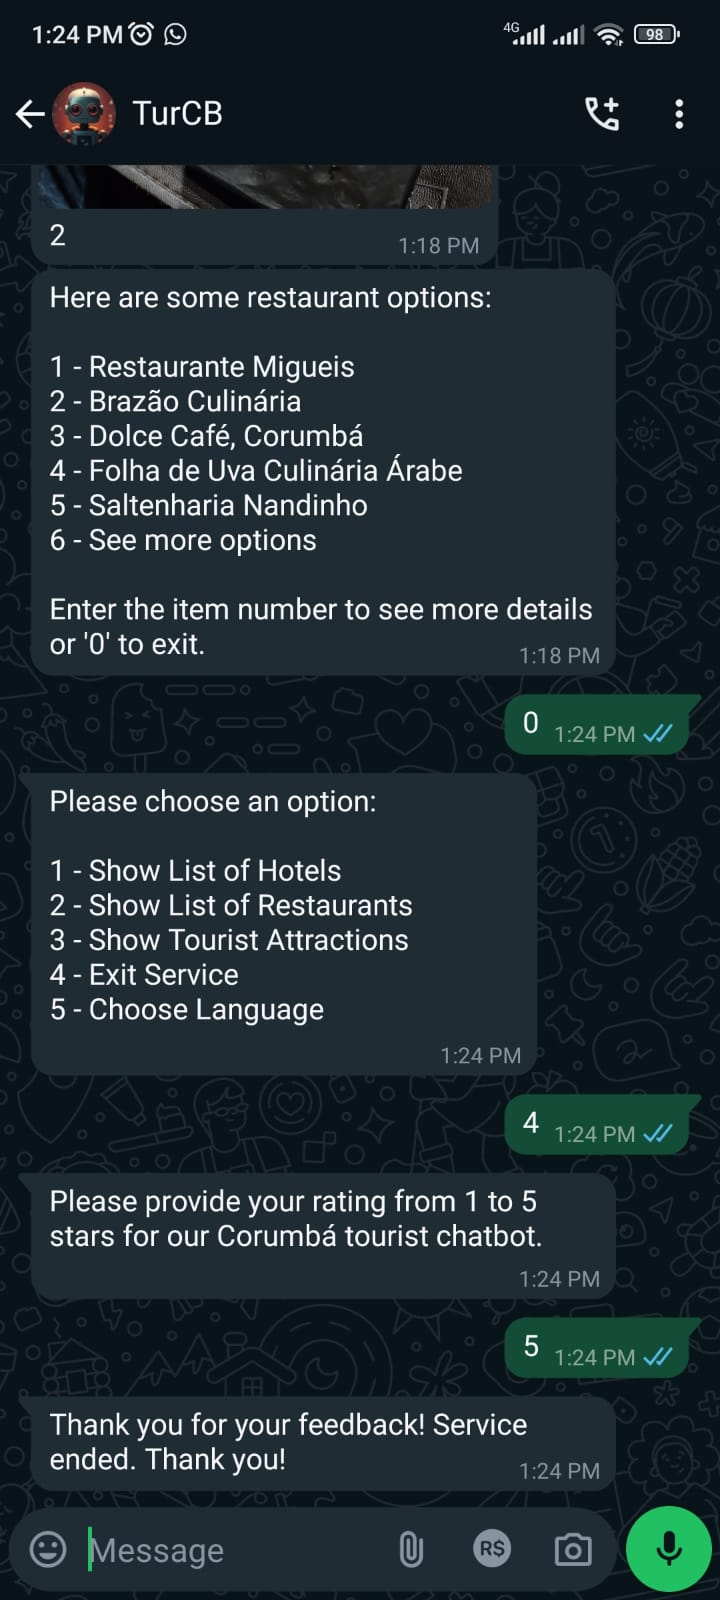
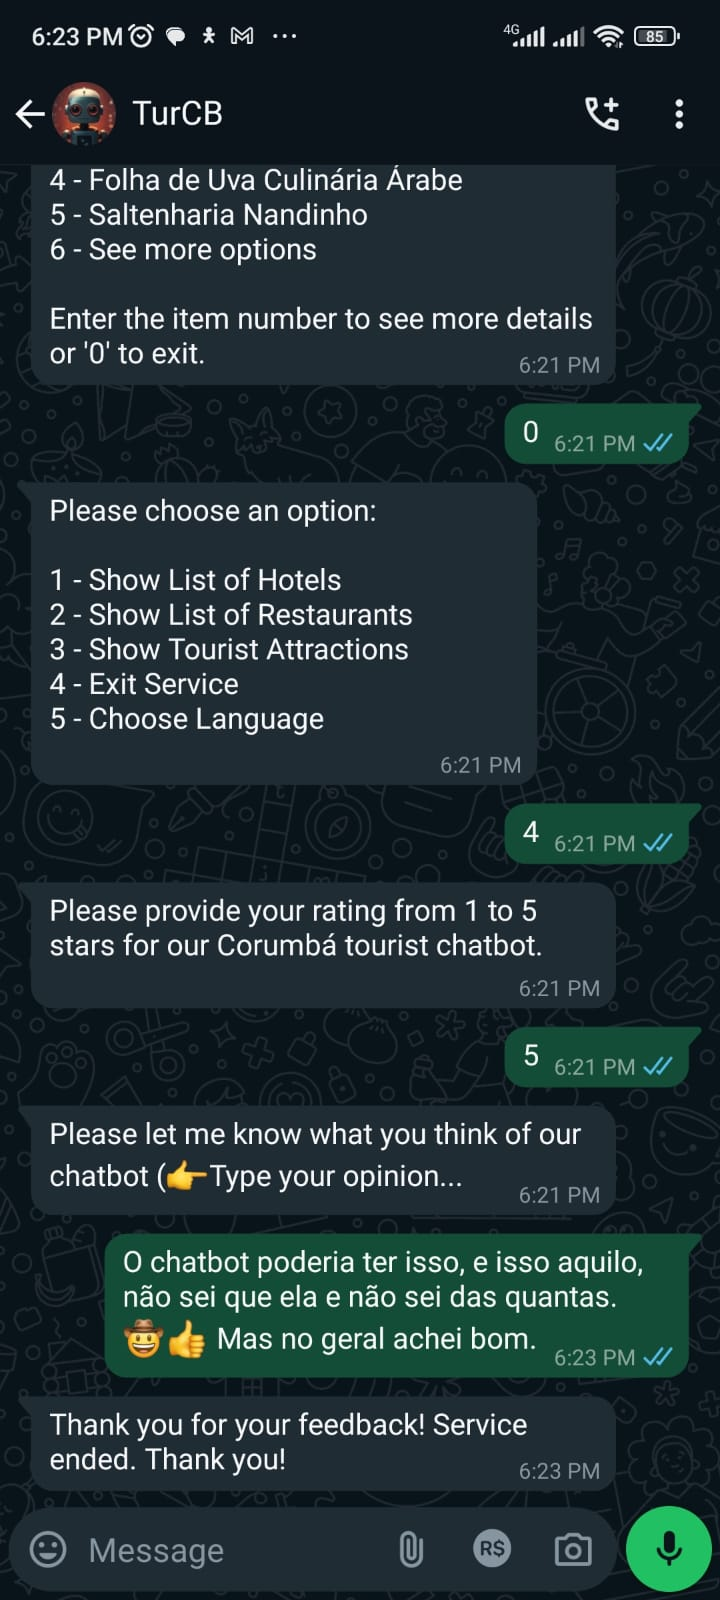
adicionando feedback do usuario

diff --git a/src/message.js b/src/message.js
@@ -987,74 +987,103 @@ const collectFeedback = async (client, phoneNumber, userState) => {
  */
 const messageListener = (client, phoneNumber, userState, userName, messages) => async (message) => {
   /**
-  * @constant {string} language - Retrieving the user's preferred language, or default "pt"
-  */
-  const language = userState[phoneNumber].language || 'pt';
-  /**
-  * @constant {number} rating - capturing customer feedback and converting to int.
-  */
-  const rating = parseInt(message.body.trim());
-
-  /**
-   * @description - Checks that the rating is a number between 1 and 5.
+   * @constant {string} language - Retrieving the user's preferred language, or default "pt"
    */
-  if (isNaN(rating) || rating < 1 || rating > 5) {
+  const language = userState[phoneNumber].language || 'pt';
+
+  if (userState[phoneNumber].isCollectingFeedback && !userState[phoneNumber].isCollectingOpinion) {
     /**
-    * @constant {string} invalidMessage - invalid message according to the user's language. If not, the default language "pt" is used.
-       */
-    const invalidMessage = messages.invalidOptionMessage[language] || messages.invalidOptionMessage['pt'];
-    /**
-  * @property {string} - Send the choice of user and the menu to the user.
-  */
-    await client.sendMessage(phoneNumber, invalidMessage);
-  } else {
-    try {
-      /**
-       * @description -  Save the evaluation in the database.
-       */
-      await EvaluationModel.findOneAndUpdate(
-        { phoneNumber },
-        { clientName: userName, phoneNumber: phoneNumber, rating: rating },
-        { upsert: true, new: true }
-      );
-
-      /**
-       * @constant {Object} confirmationMessage - Confirmation message according to the user's language, if there is no Portuguese standard.
-       */
-      const confirmationMessage = messages.feedbackMessage[language] || messages.feedbackMessage['pt'];
-      /**
-      * @property {string} - Send the choice of user and the menu to the user.
-      */
-      await client.sendMessage(phoneNumber, confirmationMessage);
-
-      /**
-       * @property {string} state - Update user status.
-       */
-      userState[phoneNumber].state = "LISTENING_ONLY";
-      console.log(`Feedback received. The user ${userName} ended the conversation`);
-
-      /**
-       * @property {boolean} isCollectingFeedback - Define that feedback is no longer being collected.
-       */
-      userState[phoneNumber].isCollectingFeedback = false;
-
-      /**
-       * @property {Object} lastMessageTimestamp - Update the timestamp of the last message processed.
-       */
-      userState[phoneNumber].lastMessageTimestamp = message.timestamp;
-    } catch (error) {
-      console.error('Error saving feedback:', error);
-      /**
-     * @constant {string} errorMessage - Error message, default.
+     * @constant {number} rating - capturing customer feedback and converting to int.
      */
-      const errorMessage = 'Sorry, there was an error saving your feedback. Please try again later.';
+    const rating = parseInt(message.body.trim());
+
+    /**
+     * @description - Checks that the rating is a number between 1 and 5.
+     */
+    if (isNaN(rating) || rating < 1 || rating > 5) {
       /**
-      * @property {string} - Send the choice of user and the menu to the user.
-      */
+       * @constant {string} invalidMessage - invalid message according to the user's language. If not, the default language "pt" is used.
+       */
+      const invalidMessage = messages.invalidOptionMessage[language] || messages.invalidOptionMessage['pt'];
+
+      /**
+       * @property {string} - Send the choice of user and the menu to the user.
+       */
+      await client.sendMessage(phoneNumber, invalidMessage);
+    } else {
+      // Save the rating and prompt for opinion
+      userState[phoneNumber].rating = rating;
+      userState[phoneNumber].isCollectingOpinion = true;
+
+      /**
+       * @constant {string} opinionPrompt - Opinion prompt message according to the user's language.
+       */
+      const opinionPrompt = messages.collectFeedbackMessage[language] || messages.collectFeedbackMessage['pt'];
+
+      /**
+       * @property {string} - Send opinion prompt to the user.
+       */
+      await client.sendMessage(phoneNumber, opinionPrompt);
+    }
+  } else if (userState[phoneNumber].isCollectingFeedback && userState[phoneNumber].isCollectingOpinion) {
+    // Collect the user's opinion
+    const opinion = message.body.trim();
+
+    if (opinion.length <= 256) {
+      try {
+        // Save the feedback to the database
+        await EvaluationModel.findOneAndUpdate(
+          { phoneNumber },
+          { clientName: userName, phoneNumber: phoneNumber, rating: userState[phoneNumber].rating, feedback: opinion },
+          { upsert: true, new: true }
+        );
+
+        /**
+         * @constant {Object} confirmationMessage - Confirmation message according to the user's language, if there is no Portuguese standard.
+         */
+        const confirmationMessage = messages.feedbackMessage[language] || messages.feedbackMessage['pt'];
+
+        /**
+         * @property {string} - Send the choice of user and the menu to the user.
+         */
+        await client.sendMessage(phoneNumber, confirmationMessage);
+
+        /**
+         * @property {string} state - Update user status.
+         */
+        userState[phoneNumber].state = "LISTENING_ONLY";
+        console.log(`Feedback received. The user ${userName} ended the conversation`);
+
+        /**
+         * @property {boolean} isCollectingFeedback - Define that feedback is no longer being collected.
+         */
+        userState[phoneNumber].isCollectingFeedback = false;
+        userState[phoneNumber].isCollectingOpinion = false;
+
+        /**
+         * @property {Object} lastMessageTimestamp - Update the timestamp of the last message processed.
+         */
+        userState[phoneNumber].lastMessageTimestamp = message.timestamp;
+      } catch (error) {
+        console.error('Error saving feedback:', error);
+
+        /**
+         * @constant {string} errorMessage - Error message, default.
+         */
+        const errorMessage = 'Sorry, there was an error saving your feedback. Please try again later.';
+
+        /**
+         * @property {string} - Send the choice of user and the menu to the user.
+         */
+        await client.sendMessage(phoneNumber, errorMessage);
+      }
+    } else {
+      const errorMessage = `Feedback is too long. Please keep it within 256 characters.`;
       await client.sendMessage(phoneNumber, errorMessage);
     }
   }
 };
+
 
 
 export default handleMessage;

diff --git a/src/models/evaluation_model.js b/src/models/evaluation_model.js
@@ -21,6 +21,7 @@ const evaluationSchema = new mongoose.Schema({
   clientName: { type: String, required: true },
   phoneNumber: { type: String, required: true },
   rating: { type: Number, required: true },
+  feedback: { type: String, required: true }
 },
   { collection: "Evaluations" }
 );
